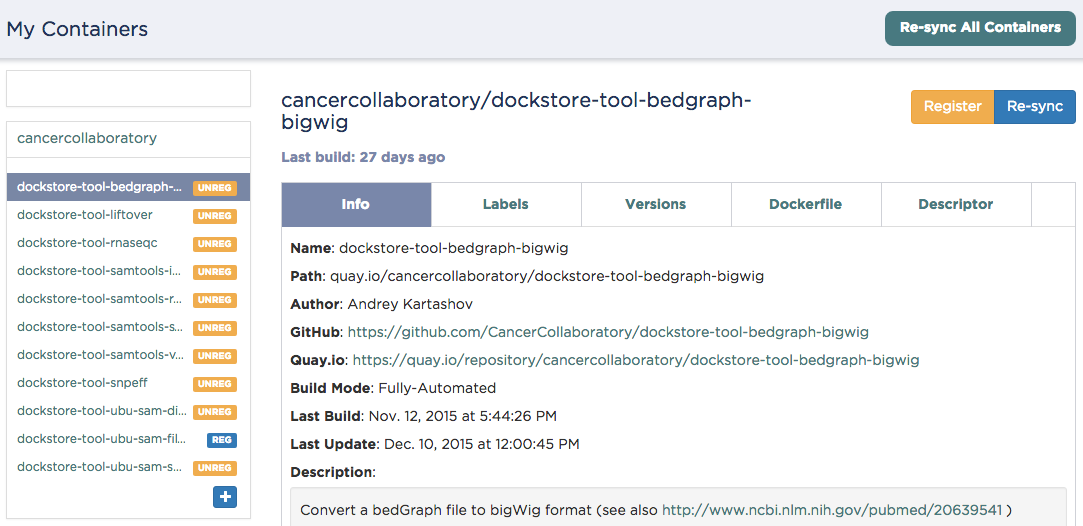
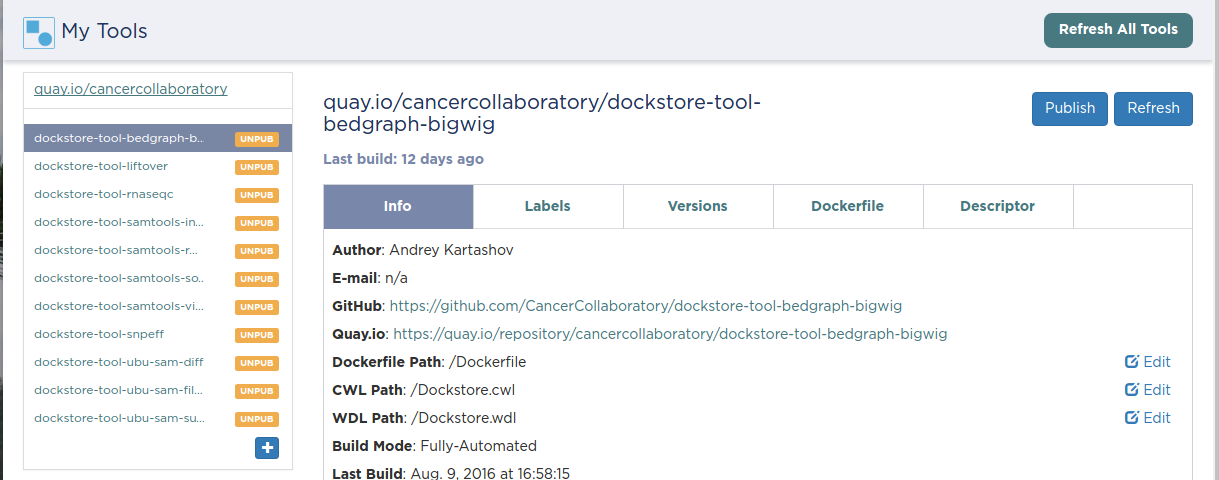
Additional documentation updates

Changed region(s): [[0.0, 0.0, 1.0, 1.0], [0.6399, 0.375, 0.9141, 0.4375], [0.5485, 0.375, 0.6399, 0.4375]]

diff --git a/app/scripts/services/documentationservice.js b/app/scripts/services/documentationservice.js
@@ -59,6 +59,12 @@ angular.module('dockstore.ui')
           description: 'Dockstore news and events',
           name: 'News and Events',
           path: 'docs/blog.md'
+        },
+        {
+          slug: 'advanced-features',
+          description: 'This page introduces advanced features of Dockstore that may make using or developing Dockstore tools more convenient',
+          name: 'Advanced Features',
+          path: 'docs/advanced-features.md'
         }
       ];
 

diff --git a/app/views/home.html b/app/views/home.html
@@ -87,10 +87,13 @@
   <div class="container">
     <div class="row">
       <div class="col-md-4">
-        <h3 class="documentation">About Dockstore</h3>
+        <h3 class="documentation">Using Dockstore</h3>
         <ul>
           <li>
             <a href="/docs/blog">News and Events</a>
+          </li>
+          <li>
+            <a href="/docs/advanced-features">Advanced Features</a>
           </li>
         </ul>
       </div>

diff --git a/app/templates/registercontainer.html b/app/templates/registercontainer.html
@@ -2,7 +2,7 @@
   <div class="modal-dialog">
     <div class="modal-content">
       <div class="modal-header">
-        <h4 class="modal-title">Register Container</h4>
+        <h4 class="modal-title">Register Tool</h4>
       </div>
       <div class="alert alert-danger alert-dismissable"
           role="alert"

diff --git a/app/scripts/controllers/onboarding.js b/app/scripts/controllers/onboarding.js
@@ -39,7 +39,7 @@ angular.module('dockstore.ui')
             $scope.owStep++;
             break;
           default:
-            $location.path('/search-containers');
+            $location.path('/docs');
         }
       };
 

diff --git a/app/docs/getting-started-with-dockstore.md b/app/docs/getting-started-with-dockstore.md
@@ -10,9 +10,9 @@ Your link to GitHub is established on login and you will then be prompted to lin
 
 ![Link accounts](docs/linking1.png)
 
-Linking a supported image repository service (e.g. Quay.io) will automatically trigger a synchronization order to retrieve information about the account's containers
+Linking a supported image repository service (e.g. Quay.io) will automatically trigger a synchronization order to retrieve information about the account's tools
 
-![Refresh containers](docs/linking2.png)
+![Refresh tools](docs/linking2.png)
 
 Below, GitHub, BitBucket and Quay.io accounts have been linked, it is necessary for at least the GitHub account be linked in order to perform regular account activities.
 
@@ -28,13 +28,13 @@ Now that you have your `Dockerfile` and `Dockstore.cwl` in GitHub, have setup Qu
 
 ### Quick Registration via the Web UI 
 
-In the authenticated Web UI, navigate to 'My Containers' to begin managing Docker images imported through your linked account(s). These pages will allow you to quickly register containers that follow a particularly simple format (look below to manual registration for more complex formats). For quick registration, we look through your quay.io images and see if any are setup as [automated builds](https://docs.quay.io/guides/building.html). Using those to track back to your github or bitbucket accounts, we list all pairs of Docker images with git repositories that contain a `Dockstore.cwl` and a `Dockerfile`. When we discover both of these, we create an unregistered entry in the interface below. 
+In the authenticated Web UI, navigate to 'My Tools' to begin managing Docker images imported through your linked account(s). These pages will allow you to quickly register tools that follow a particularly simple format (look below to manual registration for more complex formats). For quick registration, we look through your quay.io images and see if any are setup as [automated builds](https://docs.quay.io/guides/building.html). Using those to track back to your github or bitbucket accounts, we list all pairs of Docker images with git repositories that contain a `Dockstore.cwl` and a `Dockerfile`. When we discover both of these, we create an unregistered entry in the interface below. 
 
-![My Containers](docs/register_ui.png)
+![My Tools](docs/register_ui.png)
 
-The left side menu is a list of all image repositories associated with the user, grouped lexicographically by namespace. Words encapsulated in parentheses denotes the toolname. Detailed information and links for each container is located on the 'Info' tab. The 'Labels' tab allows editing of keywords to be associated with a container for efficient searching and grouping. Settings such as the path to the Dockerfile and CWL Descriptor can be modified on a per-tag basis in the 'Versions' tab. The Dockerfile and CWL/WDL Descriptor may be viewed in the last two tabs, by the Version tag (corresponding to a Git tag/branch).
+The left side menu is a list of all image repositories associated with the user, grouped lexicographically by namespace. Words encapsulated in parentheses denotes the toolname. Detailed information and links for each tool is located on the 'Info' tab. The 'Labels' tab allows editing of keywords to be associated with a tool for efficient searching and grouping. Settings such as the path to the Dockerfile and CWL Descriptor can be modified on a per-tag basis in the 'Versions' tab. The Dockerfile and CWL/WDL Descriptor may be viewed in the last two tabs, by the Version tag (corresponding to a Git tag/branch).
 
-A container is not visible on the public 'Containers' listing unless it is published. To publish a container, press the yellow 'Register' button in the top-right corner.
+A tool is not visible on the public 'Tools' listing unless it is published. To publish a tool, press the yellow 'Register' button in the top-right corner.
 
 For the tutorial, generally, you should hit the "Refresh All Tools" button to make sure Dockstore has examined your latest repositories on Quay.  Do this especially if you created a new repository like we did here.
                   
@@ -46,19 +46,19 @@ Now select the `collaboratory/dockstore-tool-bamstats` repository and click "Pub
                   
 You can also click on the "Versions" tab and should notice `1.25-3` is present and Valid=Yes.  If any versions are invalid it is likely due to a path issue to the `Dockstore.cwl`, `Dockerfile`, or `Dockstore.wdl` (if used) files.  In BAMStats I used the default value of `Dockstore.cwl` and `Dockerfile` in the root repo directory so this was not an issue.
 
-#### Manual Registration of Containers
+#### Manual Registration of Tools
 
-Outside of this tutorial, in certain cases, it is not possible for Dockstore to register every existing container, especially those with unusual project structures. Most notably, Docker Hub images can not be automatically detected by Dockstore. The second possibility is that you have multiple CWL documents in a GitHub repository associated with multiple images. For those cases, it is necessary to manually register their details to Dockstore.
+Outside of this tutorial, in certain cases, it is not possible for Dockstore to register every existing tool, especially those with unusual project structures. Most notably, Docker Hub images can not be automatically detected by Dockstore. The second possibility is that you have multiple CWL documents in a GitHub repository associated with multiple images. For those cases, it is necessary to manually register their details to Dockstore.
 
-Containers can be registered manually from the 'My Containers' page by pressing the 'Add Container' button at the bottom of the right side bar, or any of the '+' buttons in each accordion namespace group. A modal will appear as below:
+Tools can be registered manually from the 'My Tools' page by pressing the 'Add Tool' button at the bottom of the right side bar, or any of the '+' buttons in each accordion namespace group. A modal dialog will appear as below:
 
-![Register Container Manual](docs/register_container_manual.png)
+![Register Tool Manual](docs/register_container_manual.png)
 
 The Source Code Repository and Image Registry fields must be filled out, they are in the format `namespace/name` (the two paths may differ). The Dockerfile Path and CWL/WDL Descriptor Paths are relative to the root of the Source Code Repository (and must begin with '/'), these will be the default locations to find their corresponding files, unless specified otherwise in the tags. The toolname is an optional 'suffix' appended to the Dockstore path, it allows for two repositories to share the same Git and Image Registry paths; the image registry path and the toolname uniquely distinguishes image repositories in Dockstore.
 
-Upon successful submission and registration of the container, a resynchronization call will be made to fetch all available data from the given sources. If the image registry is Quay.io, existing version tags will be prepopulated for the Dockstore record.
+Upon successful submission and registration of the tool, a resynchronization call will be made to fetch all available data from the given sources. If the image registry is Quay.io, existing version tags will be prepopulated for the Dockstore record.
 
-The user will then be taken to the 'Versions' tab of the new container, where tags (corresponding to GitHub/Bitbucket tag names) may be added.
+The user will then be taken to the 'Versions' tab of the new tool, where tags (corresponding to GitHub/Bitbucket tag names) may be added.
 
 ![Versions Grid](docs/version_tags.png)
 
@@ -164,7 +164,7 @@ First, we will work in tool mode (`dockstore tool`). We recommend you first `doc
     ------------------
 
 
-You can then use `dockstore tool publish` to see the list of available Docker images you can register with Dockstore. This is for you to publish containers that are auto-detected from Quay.io. The key is that Docker images you wish to (quick) publish have the following qualities:
+You can then use `dockstore tool publish` to see the list of available Docker images you can register with Dockstore. This is for you to publish tools that are auto-detected from Quay.io. The key is that Docker images you wish to (quick) publish have the following qualities:
 
 0. public
 0. at least one valid tag. In order to be valid, a tag has to:
@@ -193,7 +193,7 @@ You can then use `dockstore tool publish` to see the list of available Docker im
 
 You can see in the above, the tool (identified with `quay.io/cancercollaboratory/dockstore-tool-snpeff` in Dockstore and Quay.io) was successfully registered and can be seen by anyone on the Dockstore site.
 
-The `dockstore tool manual_publish` command can be used to manually register a container on Docker Hub. Its usage is outlined in the publish_manual help menu. This will allow you to register entries that do not follow the qualities above (non-automated builds and Docker Hub images). 
+The `dockstore tool manual_publish` command can be used to manually register a tool on Docker Hub. Its usage is outlined in the publish_manual help menu. This will allow you to register entries that do not follow the qualities above (non-automated builds and Docker Hub images). 
 
     $ dockstore tool manual_publish
     

diff --git a/app/docs/advanced-features.md b/app/docs/advanced-features.md
@@ -1,0 +1,18 @@
+# Advanced Features
+
+## Input File Cache
+
+When developing or debugging tools, it can be time consuming (and space-consuming) to repeatedly download input files for your tools. A feature of the Dockstore CLI is the ability to cache input files locally so that they can be quickly re-used for multiple attempts at launching a tool. 
+
+This feature relies upon Linux [hard-linking](https://en.wikipedia.org/wiki/Hard_link) so when enabling this feature, it is important to ensure that the location of the cache directory (by default, at `~/.dockstore/cache/`) is on the same filesystem as the working directory where you intend on running your tools. 
+
+There are two configuration file keys that can be used to activate input file caching and to configure the location of the cache.  These are added (or changed) inside your configuration file at `~/.dockstore/config`.
+
+```
+use-cache = true 
+cache-dir = 
+```
+
+The former is false by default and can be set to true in order to activate the cache. 
+The latter is `~/.dockstore/cache/` by default and can be set to any directory location.
+
